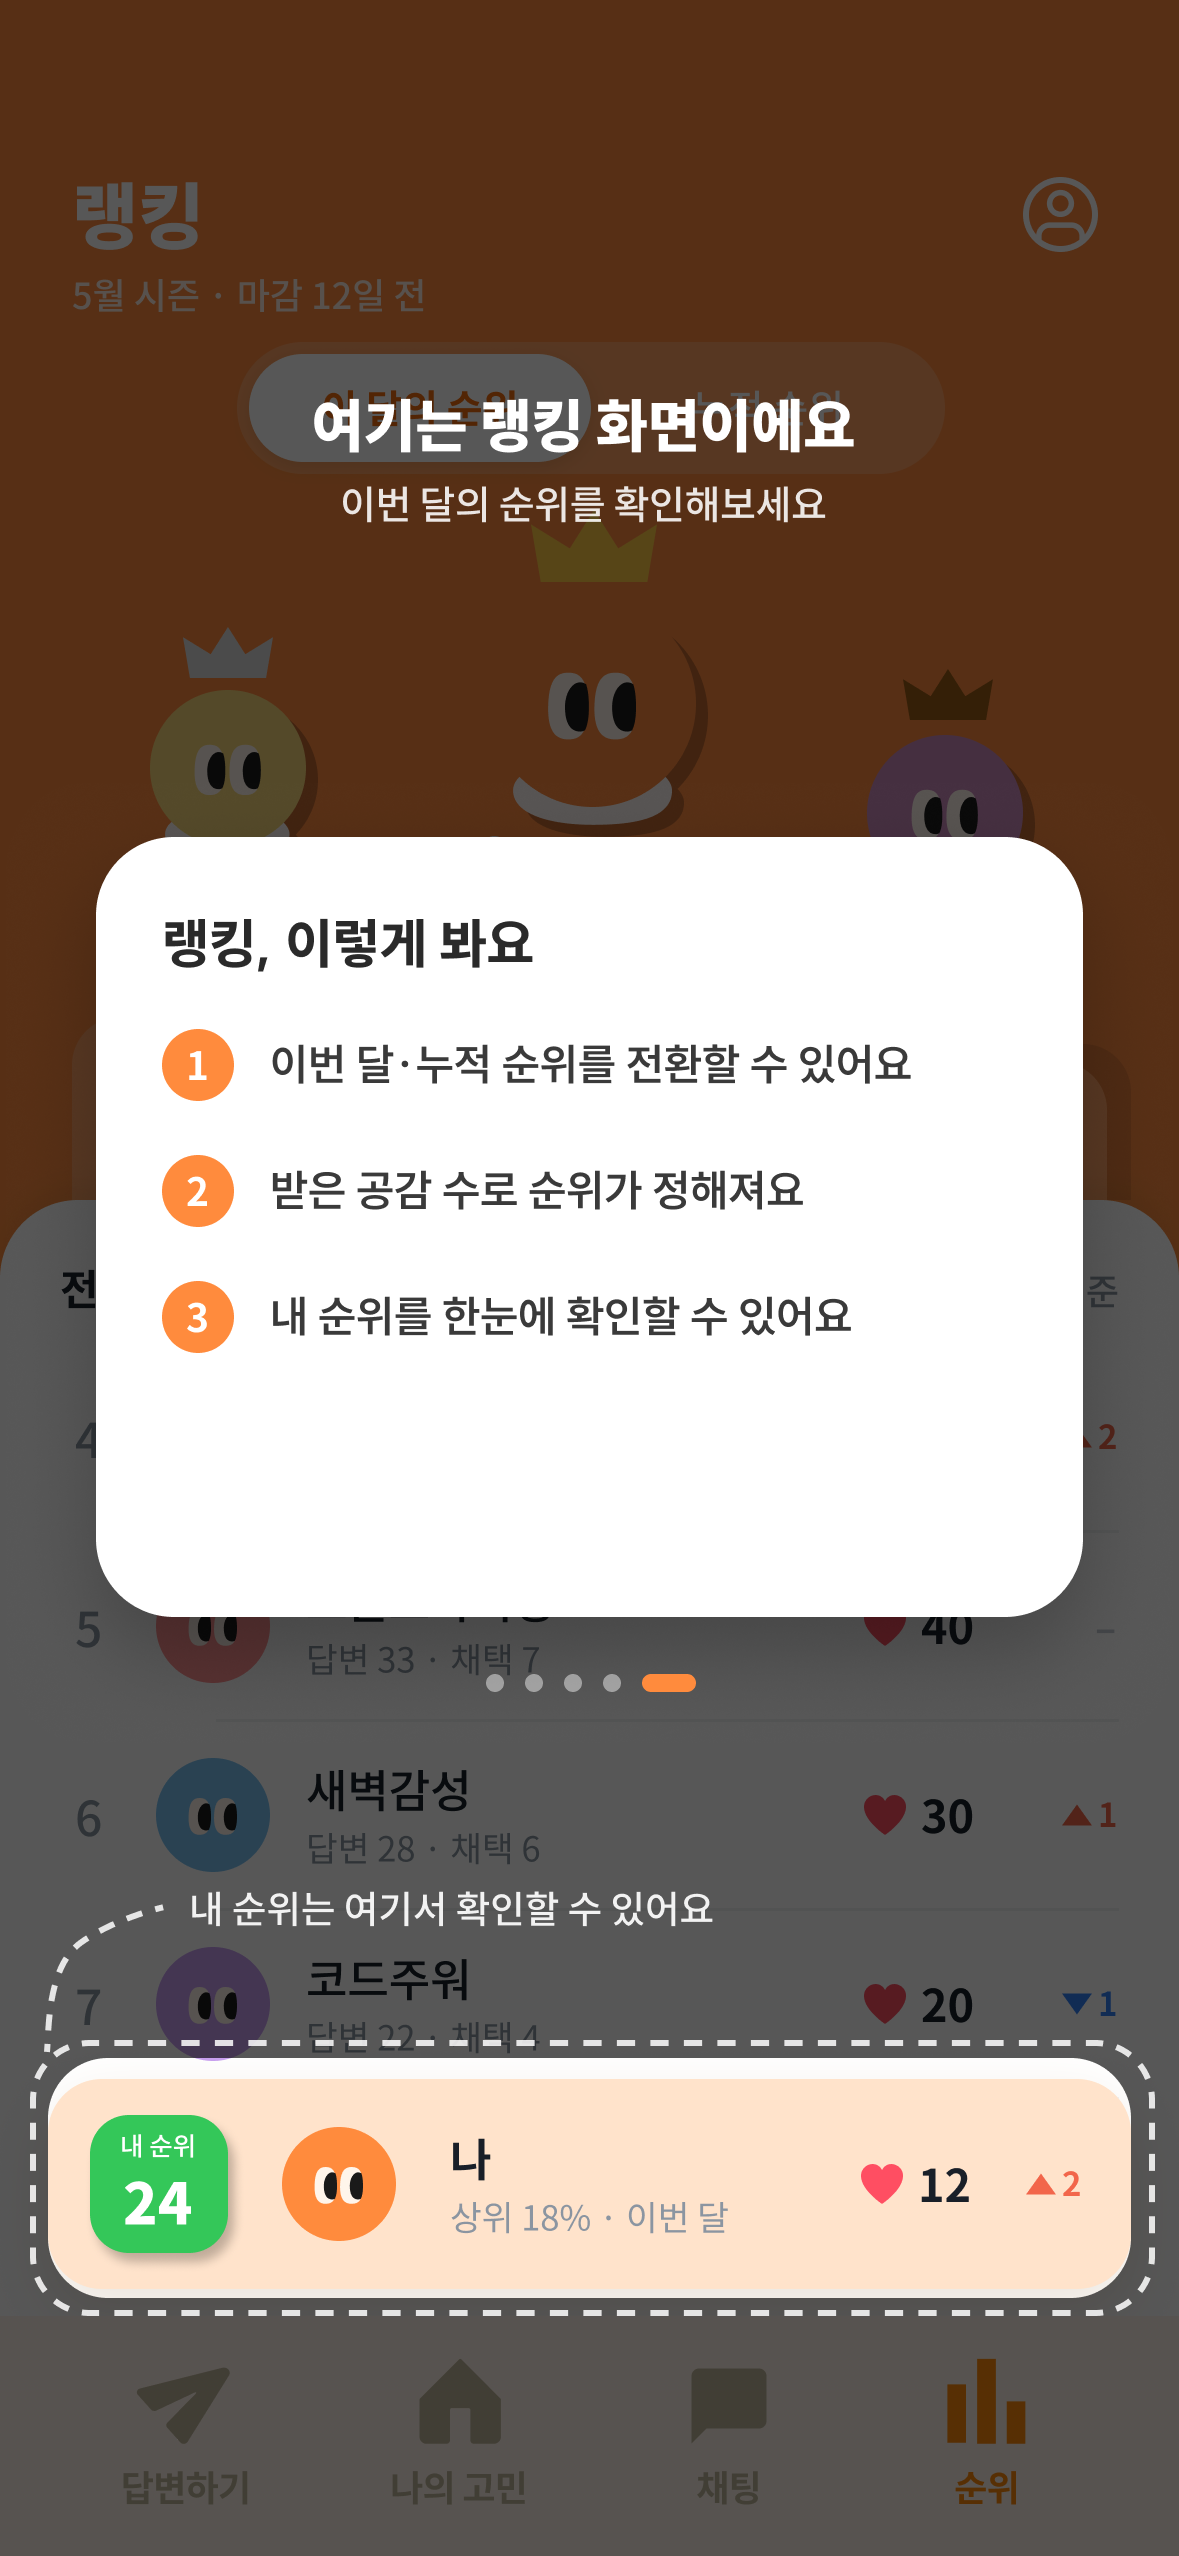
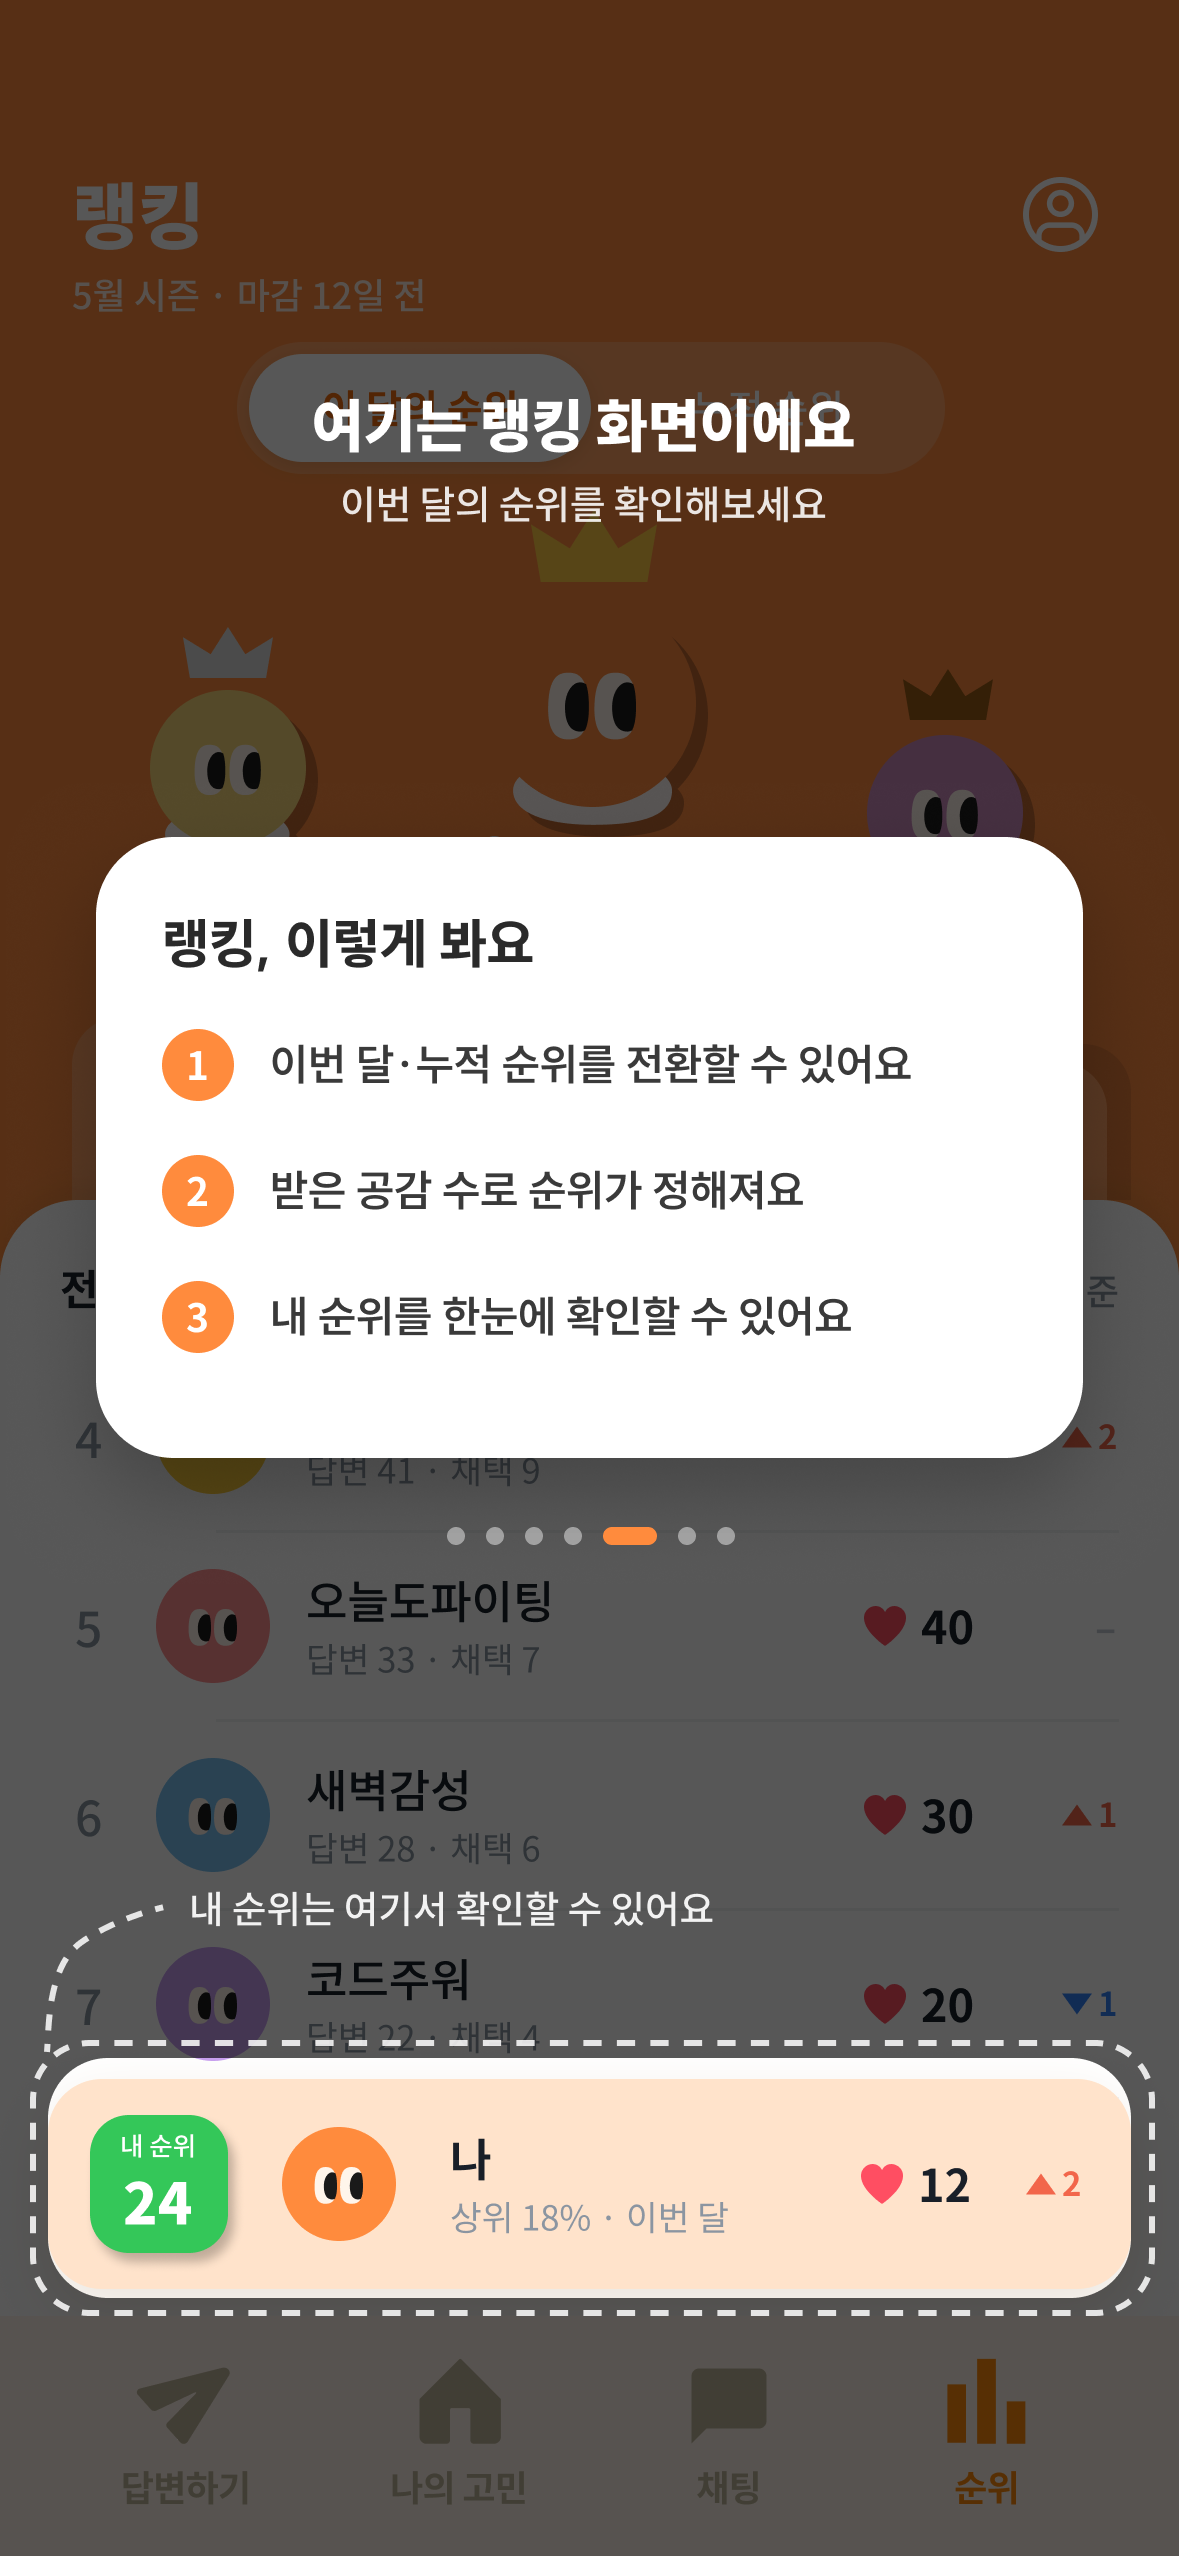
Update tutorial flow to seven slides

Changed region(s): [[0.0611, 0.5563, 0.916, 0.68]]

diff --git a/src/screens/tutorial/tutorialFlow.test.ts b/src/screens/tutorial/tutorialFlow.test.ts
@@ -7,25 +7,27 @@ import {
   previousTutorialStepIndex,
 } from './tutorialFlow';
 
-test('defines the five tutorial image steps in order', () => {
-  assert.equal(TUTORIAL_STEPS.length, 5);
+test('defines the seven tutorial image steps in order', () => {
+  assert.equal(TUTORIAL_STEPS.length, 7);
   assert.deepEqual(TUTORIAL_STEPS.map(step => step.id), [
     'tutorial-1',
     'tutorial-2',
     'tutorial-3',
     'tutorial-4',
     'tutorial-5',
+    'tutorial-6',
+    'tutorial-7',
   ]);
   for (const step of TUTORIAL_STEPS) {
-    assert.match(step.imageUrl, /assets\/tutorial\/[1-5]\.png|tutorial\/[1-5]\.png|\/src\/assets\/tutorial\/[1-5]\.png/);
+    assert.match(step.imageUrl, /assets\/tutorial\/[1-7]\.png|tutorial\/[1-7]\.png|\/src\/assets\/tutorial\/[1-7]\.png/);
     assert.match(step.alt, /큐링 사용법 튜토리얼/);
   }
 });
 
 test('advances tutorial steps without moving past the last image', () => {
-  assert.equal(nextTutorialStepIndex(0, 5), 1);
-  assert.equal(nextTutorialStepIndex(3, 5), 4);
-  assert.equal(nextTutorialStepIndex(4, 5), 4);
+  assert.equal(nextTutorialStepIndex(0, 7), 1);
+  assert.equal(nextTutorialStepIndex(5, 7), 6);
+  assert.equal(nextTutorialStepIndex(6, 7), 6);
   assert.equal(nextTutorialStepIndex(0, 0), 0);
 });
 
@@ -36,7 +38,7 @@ test('moves tutorial steps backward without moving before the first image', () =
 });
 
 test('detects the final tutorial step only when the flow has steps', () => {
-  assert.equal(isLastTutorialStep(0, 5), false);
-  assert.equal(isLastTutorialStep(4, 5), true);
+  assert.equal(isLastTutorialStep(0, 7), false);
+  assert.equal(isLastTutorialStep(6, 7), true);
   assert.equal(isLastTutorialStep(0, 0), false);
 });

diff --git a/src/screens/tutorial/TutorialScreen.test.ts b/src/screens/tutorial/TutorialScreen.test.ts
@@ -24,7 +24,7 @@ test('tutorial screen keeps the full-image responsive canvas without adding sepa
   assert.match(html, /h-\[852px\] w-\[393px\]/);
   assert.match(html, /scale\(min\(calc\(min\(100vw, var\(--qling-mobile-canvas-max-width\)\) \/ 393px\), calc\(100dvh \/ 852px\)\)\)/);
   assert.match(html, /object-contain/);
-  assert.doesNotMatch(html, /1 \/ 5/);
+  assert.doesNotMatch(html, /1 \/ 7/);
   assert.doesNotMatch(html, /다음<\/button>/);
   assert.doesNotMatch(html, /다음 튜토리얼 보기/);
 });
@@ -75,7 +75,7 @@ test('final tutorial step renders only the React start button at the blank CTA p
   let previousCount = 0;
   let completed = false;
   const tree = TutorialScreen(baseProps({
-    currentStepIndex: 4,
+    currentStepIndex: 6,
     onPrevious: () => {
       previousCount += 1;
     },
@@ -86,7 +86,7 @@ test('final tutorial step renders only the React start button at the blank CTA p
   const html = renderToStaticMarkup(tree);
 
   assert.doesNotMatch(html, /다음 튜토리얼 보기/);
-  assert.match(html, /left-\[54px\] top-\[471px\]/);
+  assert.match(html, /left-\[54px\] top-\[678px\]/);
   assert.match(html, /h-\[49px\] w-\[285px\]/);
   assert.match(html, /큐링 시작하기/);
 

diff --git a/src/screens/tutorial/TutorialScreen.tsx b/src/screens/tutorial/TutorialScreen.tsx
@@ -95,7 +95,7 @@ export function TutorialScreen(props: TutorialScreenProps) {
                       <button
                         type="button"
                         className={cn(
-                          'absolute left-[54px] top-[471px] z-20 flex h-[49px] w-[285px] items-center justify-center rounded-[18px]',
+                          'absolute left-[54px] top-[678px] z-20 flex h-[49px] w-[285px] items-center justify-center rounded-[18px]',
                           'bg-[#ff8b3d] text-[18px] font-extrabold leading-none tracking-normal text-white',
                           'shadow-[0_4px_10px_rgba(255,139,61,0.28)] transition-transform active:scale-[0.98]',
                           'focus:outline-none focus:ring-2 focus:ring-white focus:ring-offset-2 focus:ring-offset-[#ff8b3d]',

diff --git a/src/screens/tutorial/tutorialFlow.ts b/src/screens/tutorial/tutorialFlow.ts
@@ -6,6 +6,8 @@ const tutorialImageUrls = [
   new URL('../../../assets/tutorial/3.png', import.meta.url).href,
   new URL('../../../assets/tutorial/4.png', import.meta.url).href,
   new URL('../../../assets/tutorial/5.png', import.meta.url).href,
+  new URL('../../../assets/tutorial/6.png', import.meta.url).href,
+  new URL('../../../assets/tutorial/7.png', import.meta.url).href,
 ] as const;
 
 export const TUTORIAL_STEPS: readonly TutorialStep[] = tutorialImageUrls.map((imageUrl, index) => ({
